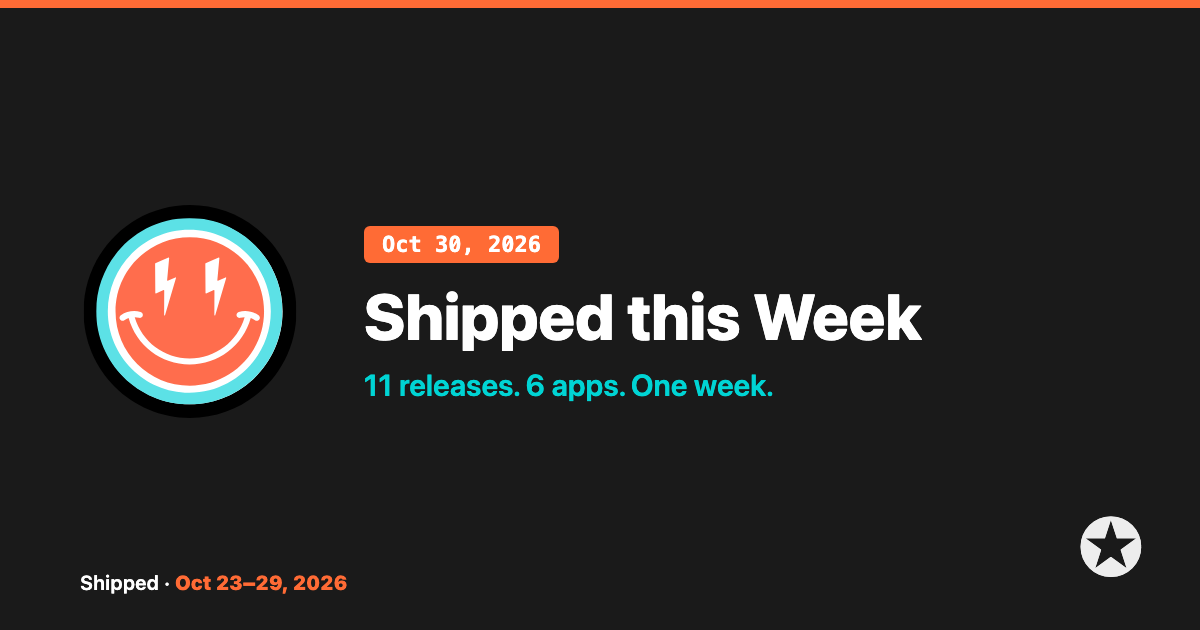
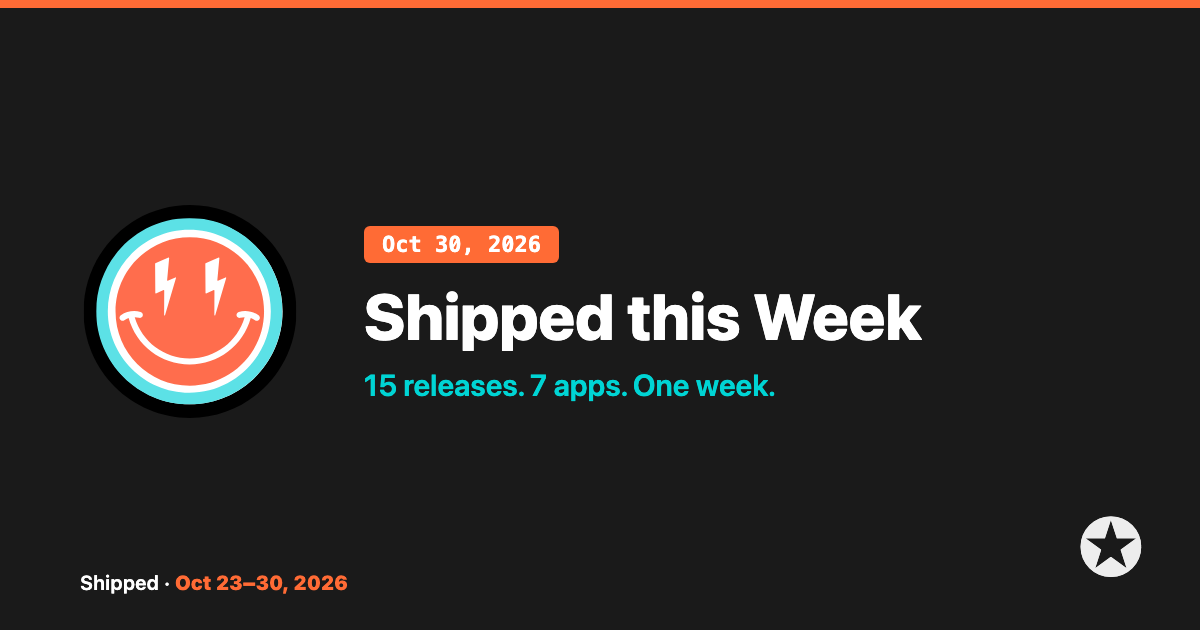
docs: add faf-taf-git and skills-ladder 0.2.x to Shipped this Week Oct 30 (#109)
* docs: add faf-taf-git and skills-ladder 0.2.x to Shipped this Week Oct 30

- faf-taf-git 2.4.0 and 2.4.1, skills-ladder 0.2.0 and 0.2.1
- counts to 15 releases across 7 apps, October 23-30 (post, meta, index, share text)

* docs: Shipped this Week Oct 30 hero to 15 releases, 7 apps, Oct 23-30

---------

Changed region(s): [[0.3083, 0.6032, 0.6475, 0.6333], [0.2158, 0.9048, 0.2775, 0.9349]]

diff --git a/src/routes/blog/shipped-this-week-2026-10-30/+page.svelte b/src/routes/blog/shipped-this-week-2026-10-30/+page.svelte
@@ -7,7 +7,7 @@
 
 Three MCP servers now tell the model how their tools fit together.
 
-…and 8 more releases, including faf-cli 8.5.0 and skills-ladder.
+…and 12 more releases, including faf-cli 8.5.0, faf-taf-git 2.4.0 and skills-ladder 0.2.0.
 
 Help guide what we build —
 Comments · suggestions · shares welcome.`;
@@ -17,9 +17,9 @@ Comments · suggestions · shares welcome.`;
 
 <svelte:head>
 	<title>Shipped this Week — Oct 30, 2026 | FAF</title>
-	<meta name="description" content="11 releases across 6 apps, October 23–29. The headline: The Instructions Edition, three MCP servers that now tell the model how their tools fit together." />
+	<meta name="description" content="15 releases across 7 apps, October 23–30. The headline: The Instructions Edition, three MCP servers that now tell the model how their tools fit together." />
 	<meta property="og:title" content="Shipped this Week — Oct 30, 2026" />
-	<meta property="og:description" content="11 releases across 6 apps, October 23–29. The headline: The Instructions Edition, three MCP servers that now tell the model how their tools fit together." />
+	<meta property="og:description" content="15 releases across 7 apps, October 23–30. The headline: The Instructions Edition, three MCP servers that now tell the model how their tools fit together." />
 	<meta property="og:type" content="article" />
 	<meta property="og:url" content="https://faf.one/blog/shipped-this-week-2026-10-30" />
 	<meta property="og:site_name" content=".faf Format Authority" />
@@ -33,7 +33,7 @@ Comments · suggestions · shares welcome.`;
 	<meta name="twitter:site" content="@fafformat" />
 	<meta name="twitter:creator" content="@wolfe_jam" />
 	<meta name="twitter:title" content="Shipped this Week — Oct 30, 2026" />
-	<meta name="twitter:description" content="11 releases across 6 apps, October 23–29. The headline: The Instructions Edition, three MCP servers that now tell the model how their tools fit together." />
+	<meta name="twitter:description" content="15 releases across 7 apps, October 23–30. The headline: The Instructions Edition, three MCP servers that now tell the model how their tools fit together." />
 	<meta name="twitter:image" content="https://faf.one/blog/shipped-this-week-2026-10-30-hero.png" />
 	<meta name="twitter:image:alt" content="Shipped this Week, October 30, 2026" />
 </svelte:head>
@@ -44,7 +44,7 @@ Comments · suggestions · shares welcome.`;
 			<a href="/">Home</a> / <a href="/blog">Blog</a> / Shipped this Week — Oct 30, 2026
 		</div>
 		<h1>Shipped this Week</h1>
-		<p class="version-tag">October 23–29, 2026</p>
+		<p class="version-tag">October 23–30, 2026</p>
 		<p class="subtitle">New this week.</p>
 		<div class="meta">
 			<time datetime="2026-10-30">October 30, 2026</time>
@@ -67,7 +67,7 @@ Comments · suggestions · shares welcome.`;
 	<article class="post-content">
 		<section class="intro">
 			<p class="lead">
-				<strong>TL;DR:</strong> 11 releases across 6 apps. The one that matters most: The
+				<strong>TL;DR:</strong> 15 releases across 7 apps. The one that matters most: The
 				Instructions Edition. claude-faf-mcp, faf-mcp and grok-faf-mcp now tell the model how their
 				tools fit together.
 			</p>
@@ -154,7 +154,40 @@ Comments · suggestions · shares welcome.`;
 		</section>
 
 		<section>
+			<h2>faf-taf-git</h2>
+			<p class="ship-line">
+				<strong>v2.4.1</strong> — <code>faf-taf-git --version</code> answers, and the descriptions say
+				tamper-evident, not "cannot be gamed".
+			</p>
+			<p class="ship-line">
+				<strong>v2.4.0</strong> — JUnit XML parser: TAF now reads the report format most test runners
+				can write, so Python, Rust, Go, Java and .NET projects get receipts with no conversion script.
+			</p>
+			<div class="terminal-block">
+				<code>npx --yes <NpmPkg name="faf-taf-git" version="2.4.1" /> --version</code>
+			</div>
+			<p class="ship-notes">
+				<a href="https://github.com/Wolfe-Jam/faf-taf-git/releases/tag/v2.4.0" target="_blank" rel="noopener"
+					>v2.4.0 notes</a
+				>
+				·
+				<a href="https://github.com/Wolfe-Jam/faf-taf-git/releases/tag/v2.4.1" target="_blank" rel="noopener"
+					>v2.4.1 notes</a
+				>
+			</p>
+		</section>
+
+		<section>
 			<h2>skills-ladder</h2>
+			<p class="ship-line">
+				<strong>v0.2.1</strong> — A short commit SHA in <code>@ref</code> now says to use the full
+				SHA, a branch or a tag, instead of git's "couldn't find remote ref".
+			</p>
+			<p class="ship-line">
+				<strong>v0.2.0</strong> — Rate a public repo by URL: <code>skills-ladder github:owner/repo</code>
+				fetches one commit, read-only, with no clone or token. <code>--census</code> prints one CSV
+				row per target.
+			</p>
 			<p class="ship-line">
 				<strong>v0.1.1</strong> — Docs only; no change to the checks.
 			</p>
@@ -163,7 +196,7 @@ Comments · suggestions · shares welcome.`;
 				a ladder (GOOD · BETTER · BEST), read-only.
 			</p>
 			<div class="terminal-block">
-				<code>npx --yes <NpmPkg name="skills-ladder" version="0.1.1" /> .</code>
+				<code>npx --yes <NpmPkg name="skills-ladder" version="0.2.1" /> .</code>
 			</div>
 			<p class="ship-notes"><a href="/blog/skills-ladder">Read the post</a></p>
 		</section>

diff --git a/src/lib/blog-posts.js b/src/lib/blog-posts.js
@@ -7,11 +7,11 @@ export const posts = [
 	{
 		slug: 'blog/shipped-this-week-2026-10-30',
 		title: 'Shipped this Week — Oct 30, 2026',
-		version: 'October 23–29, 2026',
+		version: 'October 23–30, 2026',
 		date: 'October 30, 2026',
 		timestamp: '2026-10-30',
 		excerpt:
-			'11 releases across 6 apps. The one that matters most: The Instructions Edition. claude-faf-mcp, faf-mcp and grok-faf-mcp now tell the model how their tools fit together.',
+			'15 releases across 7 apps. The one that matters most: The Instructions Edition. claude-faf-mcp, faf-mcp and grok-faf-mcp now tell the model how their tools fit together.',
 		emoji: '☑',
 		category: 'Release'
 	},
